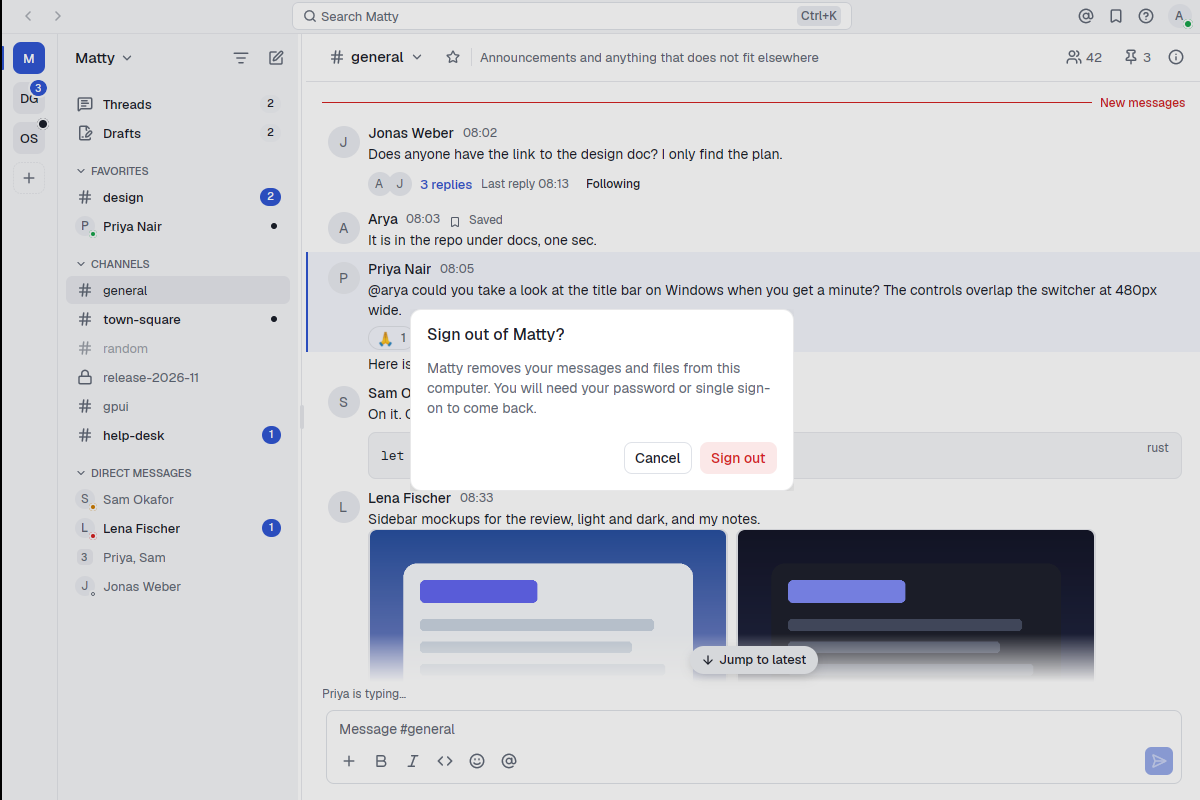
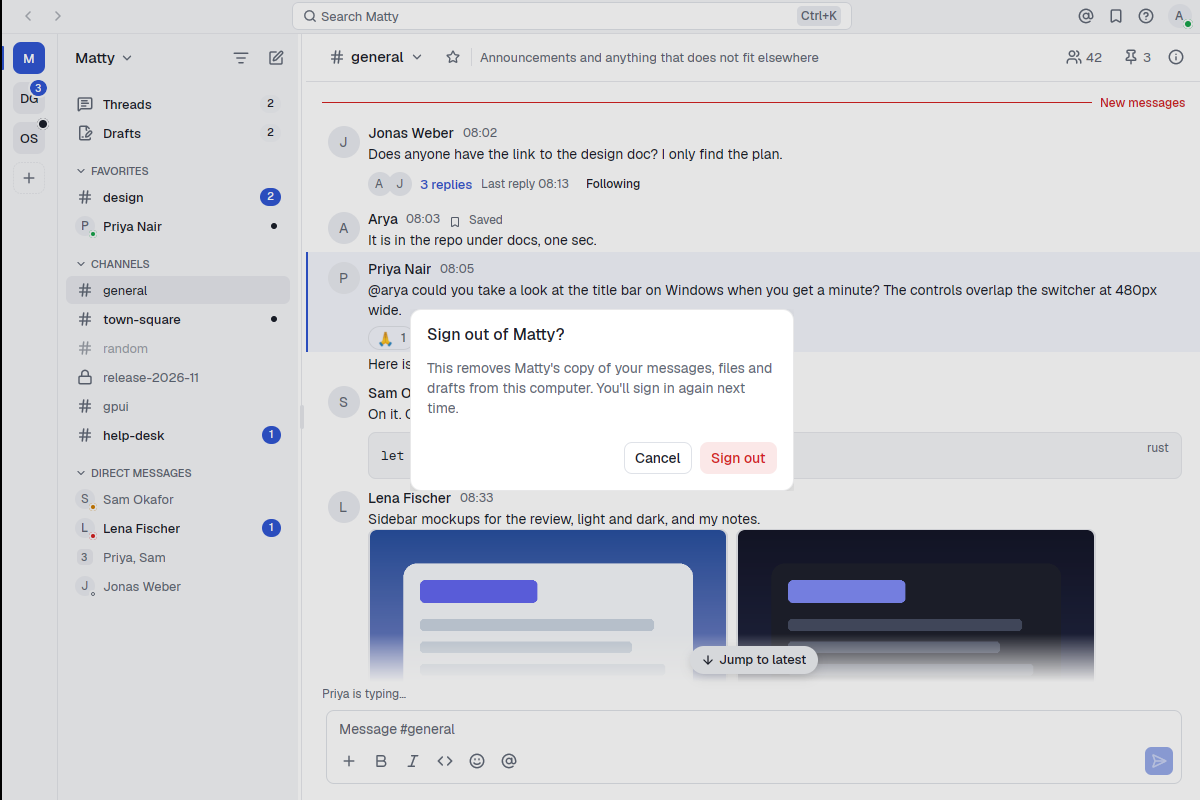
Use the design review's sign-out wording
Claude-Session: https://claude.ai/code/session_017QMGXwHzbkz4RPjfZ4Xs21

Changed region(s): [[0.3392, 0.4375, 0.6475, 0.5312]]

diff --git a/crates/matty-app/src/account.rs b/crates/matty-app/src/account.rs
@@ -516,8 +516,8 @@ impl AccountView {
             .child(dialog_title("account.sign-out.title", cx).child("Sign out of Matty?"))
             .child(
                 dialog_description("account.sign-out.description", cx).child(
-                    "Matty removes your messages and files from this computer. You \
-                     will need your password or single sign-on to come back.",
+                    "This removes Matty's copy of your messages, files and drafts from \
+                     this computer. You'll sign in again next time.",
                 ),
             )
             .child(
